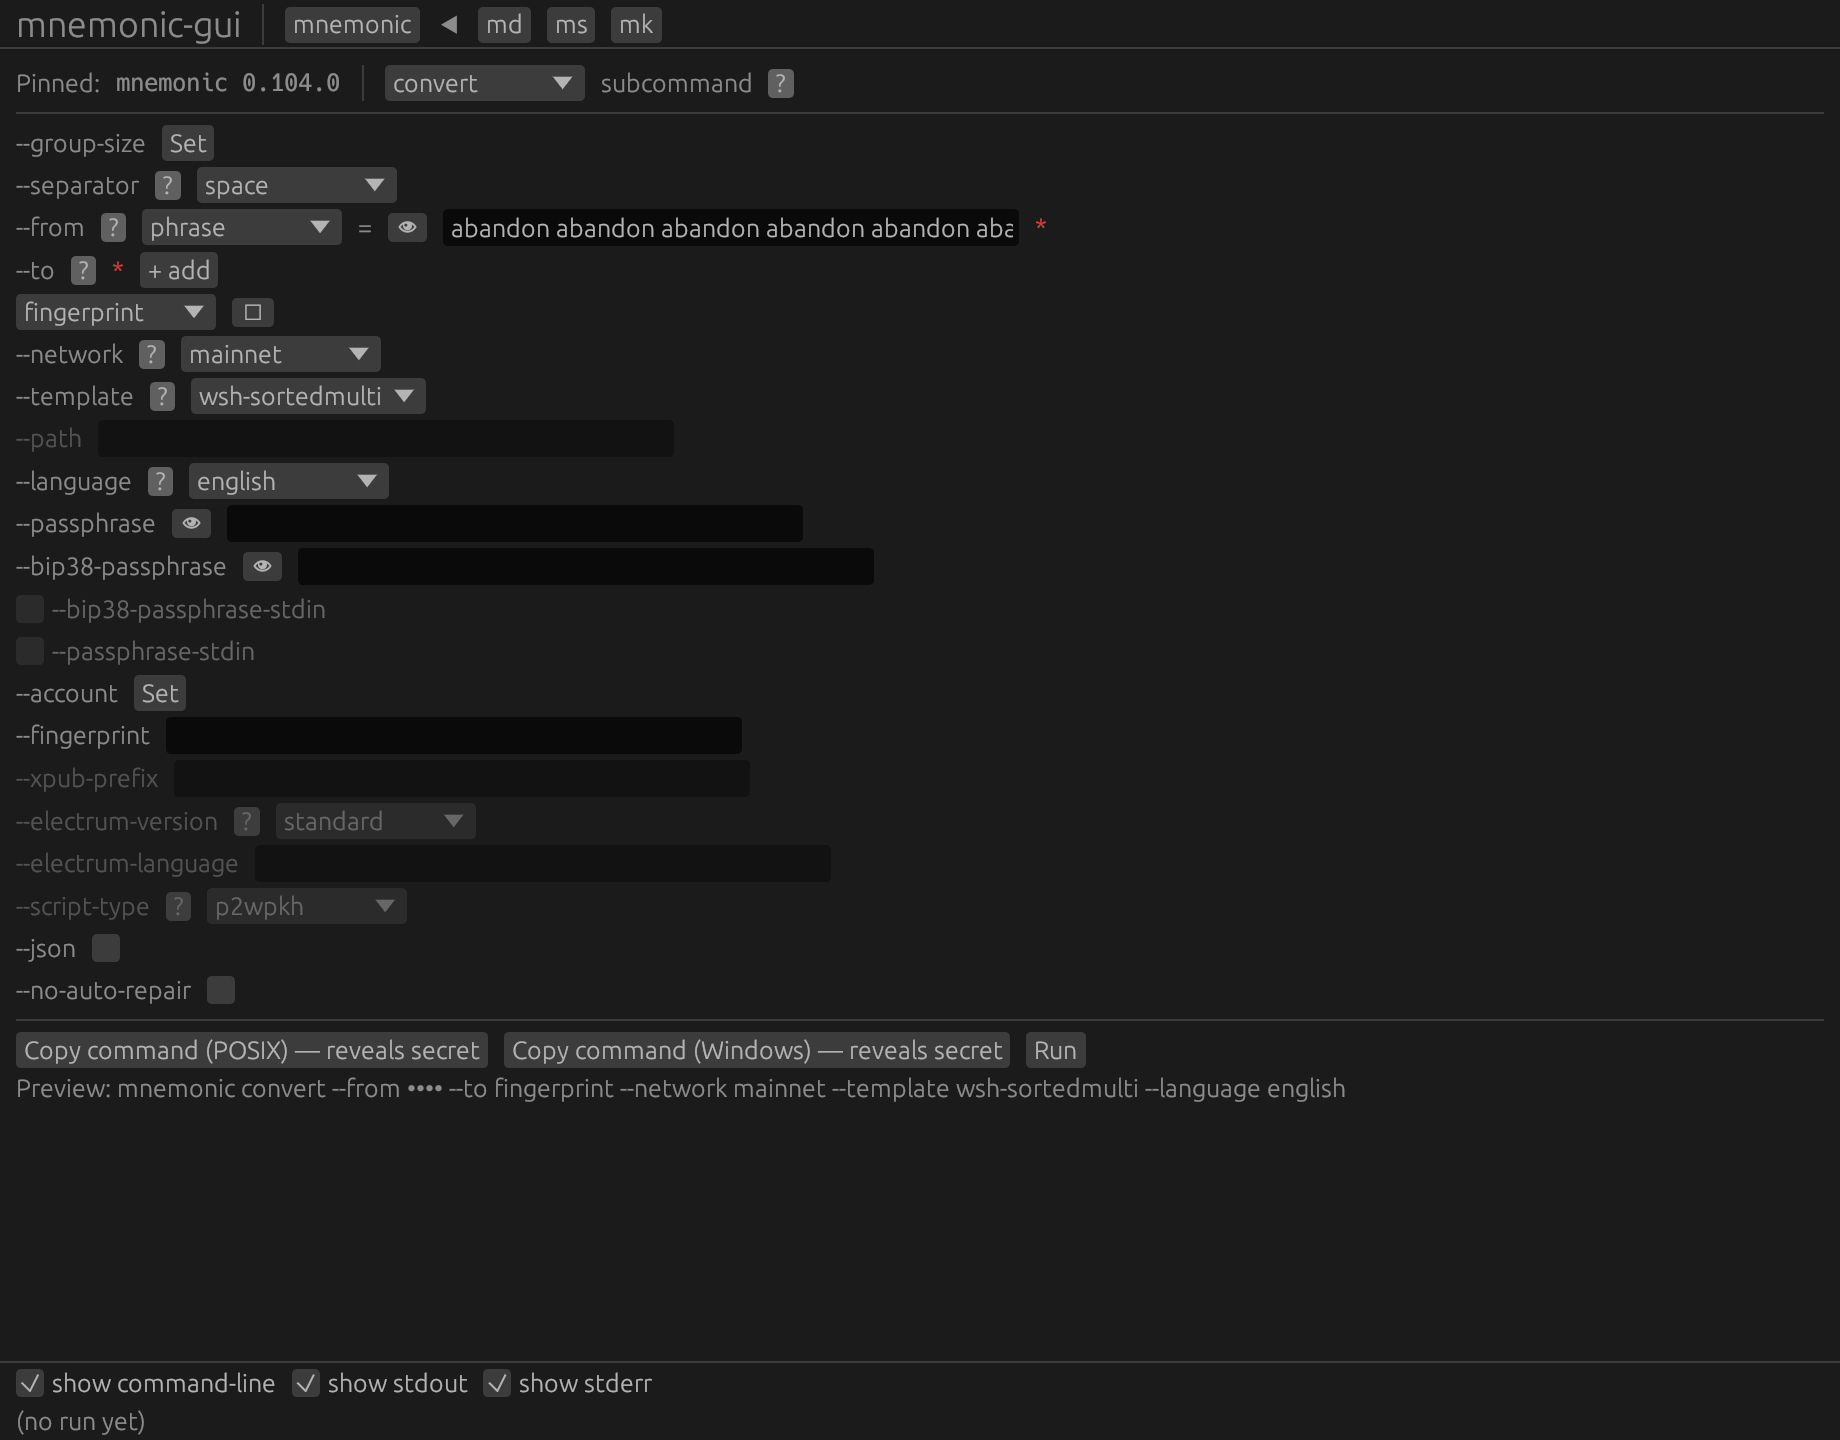
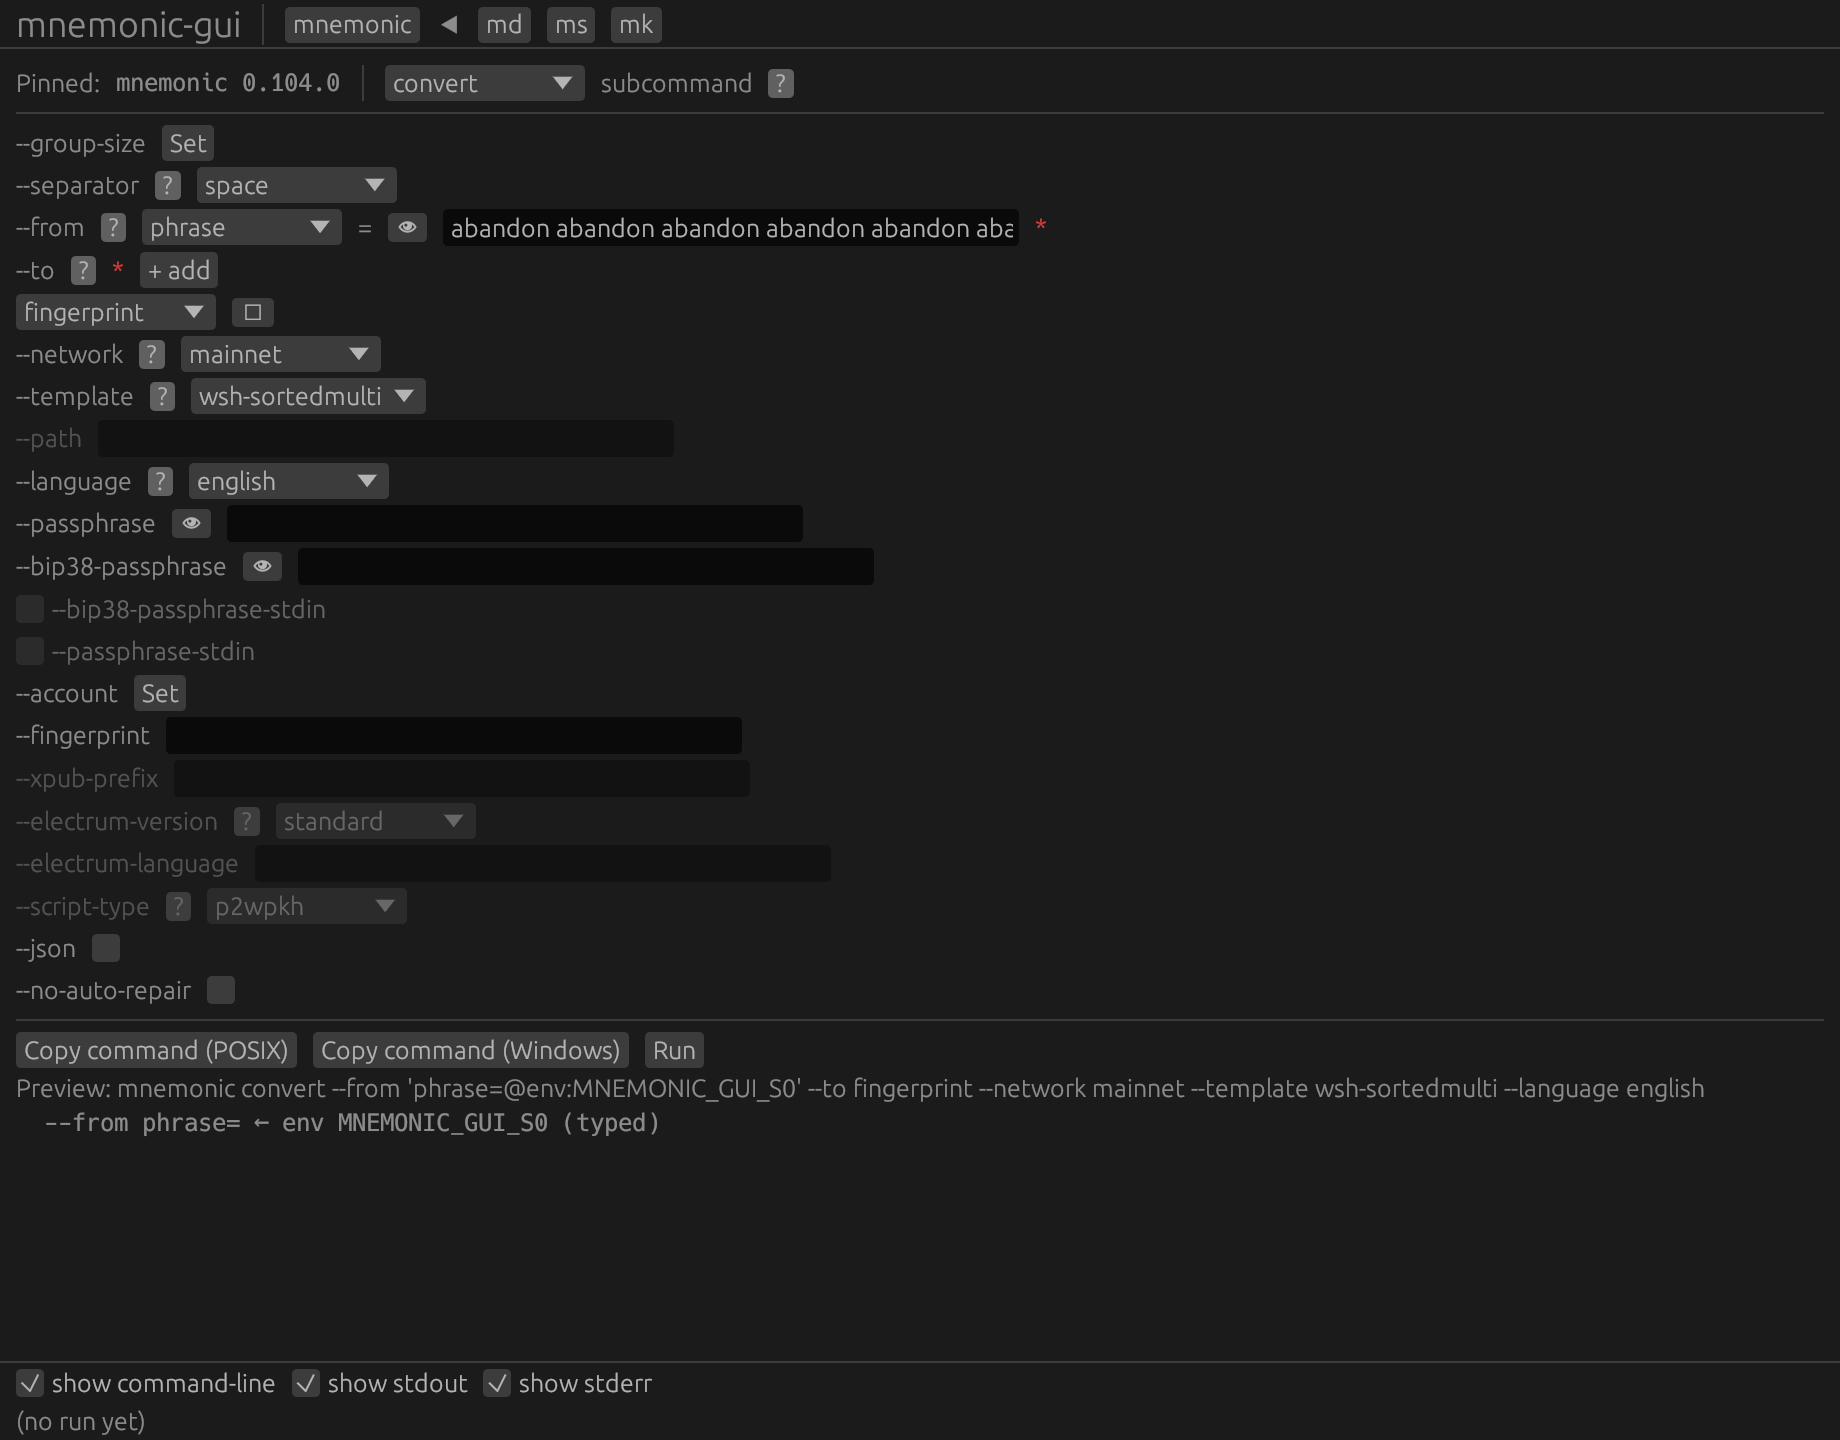
manual-gui: re-sync the form and tutorial corpus to mnemonic-gui master 3ca1d60
- 5 new form renders (.gui, from master's gui-render) and gallery PNGs
  (byte copies of tests/snapshots/forms/): md compose, shape-key,
  descriptor, decompose; ms hashlock. 61 -> 66.
- Tutorial: 9 PNGs and 5 stderr transcripts re-pinned; 3 fingerprint
  stderr transcripts deleted (master re-drove J1/J2 with private
  channels: no argv warning). The three include blocks are removed and
  the J1/J2/orientation prose now describes the Linux Preview/dialog
  (phrase=@env:MNEMONIC_GUI_S0, "sends these secrets privately").

Checked against the pinned corpus only when the pin moves; lint run
against a git archive of master: phases 9-12 OK.

Claude-Session: https://claude.ai/code/session_01EY9DSQkE2E8275FRpdwqVX

Changed region(s): [[0.1549, 0.7188, 0.8054, 0.7812], [0.8364, 0.75, 0.9293, 0.7812]]

diff --git a/docs/manual-gui/tutorial/30-j2-multisig.md b/docs/manual-gui/tutorial/30-j2-multisig.md
@@ -41,14 +41,13 @@ read the public phrase), choose **`--to`** `fingerprint`, and set
 path). The filled form is below; the run panel returns
 `fingerprint: 73c5da0a`.
 
-Note the standard-error line: because the GUI passes the phrase as an
-argument, the tool prints a `secret material on argv (--from phrase=)`
-warning and suggests piping on standard input instead. `Examples.pdf`
-uses that safer stdin idiom (`< seed0.txt`) and so shows no warning; the
-wallet output — the fingerprint — is identical either way. The phrase is
-masked everywhere on screen except where you deliberately reveal it — the
-confirm modal and the `argv:` echo stay `••••` regardless; only the
-*warning* differs.
+Standard error is empty. On Linux the GUI hands the phrase to the tool
+privately, through an environment variable of its own
+(`--from phrase=@env:MNEMONIC_GUI_S0` in the `argv:` line, never the
+words), so the tool has no argv warning to print (the reference
+manual's *Secret handling* chapter explains the channels). `Examples.pdf` keeps the phrase off the command line its own way
+(`< seed0.txt`); the fingerprint is identical either way. The phrase is
+never drawn on screen unless you deliberately reveal it in its field.
 
 ![GUI form (screenshot)](../figures/tutorial/tut-j2-02-convert-fingerprint-form.png)
 
@@ -57,12 +56,6 @@ confirm modal and the `argv:` echo stay `••••` regardless; only the
 **Output (stdout):**
 
 ```{.text include="tutorial/tut-j2-02-convert-fingerprint.stdout.txt"}
-(captured transcript — included at build time)
-```
-
-**Standard error (stderr):**
-
-```{.text include="tutorial/tut-j2-02-convert-fingerprint.stderr.txt"}
 (captured transcript — included at build time)
 ```
 
@@ -77,9 +70,9 @@ confirm modal and the `argv:` echo stay `••••` regardless; only the
 Same form, same seed (the **`--from`** phrase field is revealed in the
 shot again, as in the previous step), **`--to`** set to `xpub`: this
 returns cosigner 0's account **public** key,
-`xpub6DBjiYnc4ewKti13Q1L35…VqqzrXvicM`. Standard error repeats the
-argv warning and adds `stdout is watch-only — public keys only, cannot
-spend` — this xpub is safe to hand to the coordinator. In practice you
+`xpub6DBjiYnc4ewKti13Q1L35…VqqzrXvicM`. Standard error carries one
+line, `stdout is watch-only — public keys only, cannot spend` — this
+xpub is safe to hand to the coordinator. In practice you
 run these two `convert` steps on the air-gapped signing device and
 carry out only the fingerprint and the xpub.
 
@@ -229,14 +222,15 @@ the single-revealed-field rule, where revealing one secret field
 re-masks any other. The filled form is below.
 
 Clicking **Run** raises the same "Confirm secret-bearing run" modal as
-Journey 1 (three masked phrases this time); it runs through the confirm
+Journey 1 (three private environment references this time, one per
+slot); it runs through the confirm
 path but, to keep the book lean, is not re-photographed. Because seeds
 — not just xpubs — are supplied, the panel emits the **full secret card
 set**: one `ms1` per cosigner alongside the `mk1` and shared `md1`
-cards. Standard error carries one `secret material on argv` warning per
-slot and the `can spend` warning — this is the spendable set. Only one
-secret may arrive on standard input per run, so the truly safe path
-remains the per-device flow above.
+cards. Standard error carries the engraving panel and the `can spend`
+warning — this is the spendable set. The three seeds went to the tool
+privately, but they still met on one machine, so the safe path remains
+the per-device flow above.
 
 ![GUI form (screenshot)](../figures/tutorial/tut-j2-07-bundle-all-seeds-form.png)
 
@@ -319,12 +313,6 @@ seed differs.
 (captured transcript — included at build time)
 ```
 
-**Standard error (stderr):**
-
-```{.text include="tutorial/tut-j2-dev1-convert-fingerprint.stderr.txt"}
-(captured transcript — included at build time)
-```
-
 **Exit code:**
 
 ```{.text include="tutorial/tut-j2-dev1-convert-fingerprint.exit.txt"}
@@ -363,12 +351,6 @@ Cosigner 2, same interaction again — the transcript returns
 **Output (stdout):**
 
 ```{.text include="tutorial/tut-j2-dev2-convert-fingerprint.stdout.txt"}
-(captured transcript — included at build time)
-```
-
-**Standard error (stderr):**
-
-```{.text include="tutorial/tut-j2-dev2-convert-fingerprint.stderr.txt"}
 (captured transcript — included at build time)
 ```
 

diff --git a/docs/manual-gui/tutorial/10-ch0-orientation.md b/docs/manual-gui/tutorial/10-ch0-orientation.md
@@ -104,28 +104,28 @@ Journey 1 shots:
   moment you release, click **Run**, switch fields, or leave the
   window). Several filled-form shots in this book hold that toggle on
   purpose (see *Revealed demo phrases* below).
-- **The masked preview.** The `Preview:` line shows the argument vector
-  with the secret replaced by `••••` (for example `… --slot ••••`).
+- **The private preview.** On Linux the GUI never puts a secret on the
+  command line. The `Preview:` line shows the argument vector with a
+  private reference where the secret goes (for example
+  `… --slot '@0.phrase=@env:MNEMONIC_GUI_S0'`), and under it one line per
+  secret saying how it travels (`--slot @N.phrase= ← env
+  MNEMONIC_GUI_S0 (typed)`).
 - **The confirm modal.** The "Confirm secret-bearing run" dialog lists
-  the argument vector — again with the secret shown only as `••••` —
-  and makes you click **Run** a second time before anything spawns. The
-  **Copy command** buttons for such a form are relabelled *"— reveals
-  secret"* so you cannot copy an unmasked command line by reflex.
-- **The masked argv echo (the `argv:` line).** After a run, the output
-  panel's command-line line echoes the argument vector the app
-  actually ran — with the secret still masked as `••••`.
+  the same argument vector and the same per-secret lines, and makes you
+  click **Run** a second time before anything spawns.
+- **The `argv:` echo.** After a run, the output panel's command-line
+  line echoes the argument vector the app actually ran — the private
+  reference, never the words.
 
 That last surface deserves a word, because it looks like the command
-"lost" your seed. It did not. The masked `--slot ••••` (or `--from
-••••`) in the panel is proof that the **real** phrase was accepted and
-passed to the tool: the run succeeded, the cards came out, the
-fingerprint is correct — the app simply refuses to *print* the secret
-back to you. A real invocation on your own machine is identical to what
-the panel shows, minus the masking. (One consequence, flagged again in
-Journey 2: because the GUI passes a phrase as an argument, the tool
-emits its own "secret material on argv" warning — a hint to prefer
-piping the seed on standard input, which the shell examples in
-`Examples.pdf` do.)
+"lost" your seed. It did not. The GUI placed the phrase in a private
+environment variable of the child process and told the tool to read it
+from there (`@env:MNEMONIC_GUI_S0`); the run succeeded, the cards came
+out, the fingerprint is correct. Because the phrase never went on the
+command line, the tool prints no "secret material on argv" warning. (On
+macOS and Windows the GUI still passes the secret as an argument for
+now, and there the preview, modal and `argv:` line show it as `••••`;
+the reference manual's *Secret handling* chapter has the details.)
 
 ## Revealed demo phrases in this book
 
@@ -135,8 +135,8 @@ phrase shown that way is one of the three **public** test vectors — safe
 to print, never to fund. With your *own* seed, use the reveal only to
 verify against a paper backup, then release it (or Alt-Tab away) to
 re-mask before anyone can read the screen; the reveal is display-only, so
-the confirm modal, the `argv:` echo, and the saved session state stay
-masked no matter what.
+it never puts the phrase into the preview, the confirm modal, the
+`argv:` echo, or the saved session state.
 
 ## What the panel's `argv:` line really contains
 

diff --git a/docs/manual-gui/tutorial/20-j1-single-sig.md b/docs/manual-gui/tutorial/20-j1-single-sig.md
@@ -21,17 +21,22 @@ the single row's subkey drop-down from `xpub` to `phrase` and type the
 demo phrase into its value box. The box masks it as `••••` by default;
 the filled-form shot below holds the row's **reveal** toggle so you
 can read the exact public phrase to type (it re-masks the instant you
-release, or click **Run**). Notice the `Preview:` line still reads
-`… --slot ••••` — the reveal is display-only and never unmasks the
-preview, the confirm modal, or the `argv:` echo. The filled form is
+release, or click **Run**). Notice the `Preview:` line reads
+`… --slot '@0.phrase=@env:MNEMONIC_GUI_S0'`, with a line under it,
+`--slot @N.phrase= ← env MNEMONIC_GUI_S0 (typed)`: on Linux the GUI
+hands the phrase to `mnemonic` through a private environment variable of
+its own, so the words never appear on the command line or on screen. The
+reveal is display-only and changes none of this. The filled form is
 below.
 
 Clicking **Run** does not spawn immediately — the form carries a
 secret, so the **"Confirm secret-bearing run"** modal appears (second
-shot). It lists the exact argument vector, with the phrase shown only as
-`••••` and with the `--allow-argv-secret` the GUI adds on Run (a copied
-command leaves it out, so a shell refuses the phrase on argv), and the
-**Copy command** buttons are relabelled *"— reveals secret"*. Confirm with the modal's **Run**.
+shot). Its first line reads *"This invocation sends these secrets
+privately to mnemonic:"*; it lists the exact argument vector, which
+carries only the environment reference, and under **Secrets:** the same
+`← env MNEMONIC_GUI_S0 (typed)` line. **Copy command** copies a command
+with no secret in it: a comment line tells you how to set the variable
+yourself before running it. Confirm with the modal's **Run**.
 
 The populated panel (third shot) carries the three engraving cards on
 standard output: `ms1` (the BIP-39 entropy, BCH-checksummed), `mk1`
@@ -40,12 +45,13 @@ card is printed once, as one unbroken line — the default
 `--group-size 0` (set `--group-size 5` for five-character blocks, the
 **form you punch or engrave**). Standard
 error carries the human-readable engraving panel (fingerprint
-`73c5da0a`, origin path `m/84'/0'/0'`, template `bip84`), a
-`secret material on argv` warning, and the `stdout carries private key
-material (can spend)` warning — a reminder that this card set is the
-*spendable* backup and belongs on steel, offline. The masked `--slot
-••••` in the `argv:` line is proof the real phrase was accepted; your
-own run is identical bar the masking.
+`73c5da0a`, origin path `m/84'/0'/0'`, template `bip84`) and the
+`stdout carries private key material (can spend)` warning — a reminder
+that this card set is the *spendable* backup and belongs on steel,
+offline. There is no argv warning, because the phrase never went on the
+command line. The `argv:` line shows the same environment reference as
+the preview; the fingerprint `73c5da0a` is the proof the real phrase
+was used.
 
 ![GUI form (screenshot)](../figures/tutorial/tut-j1-01-bundle-single-sig-form.png)
 
